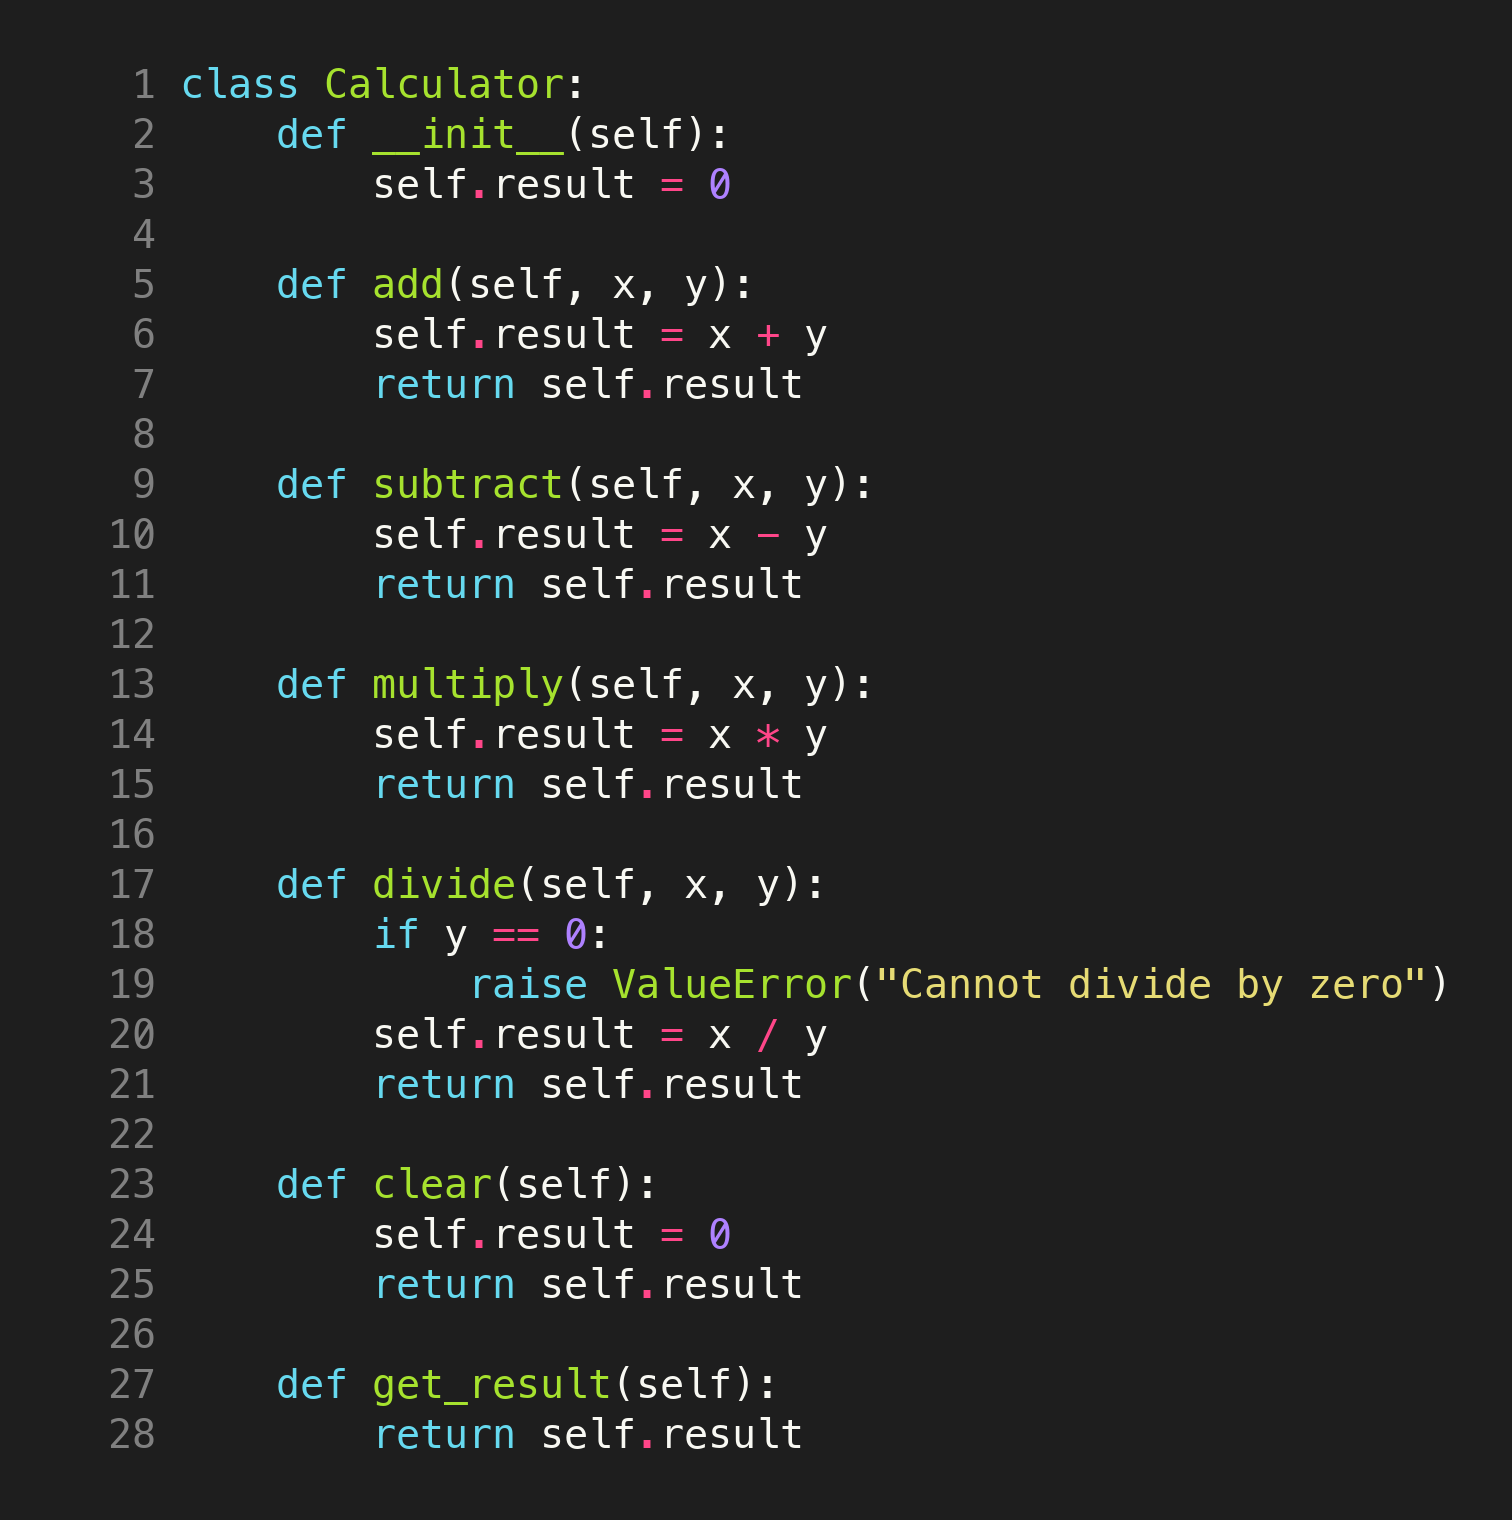
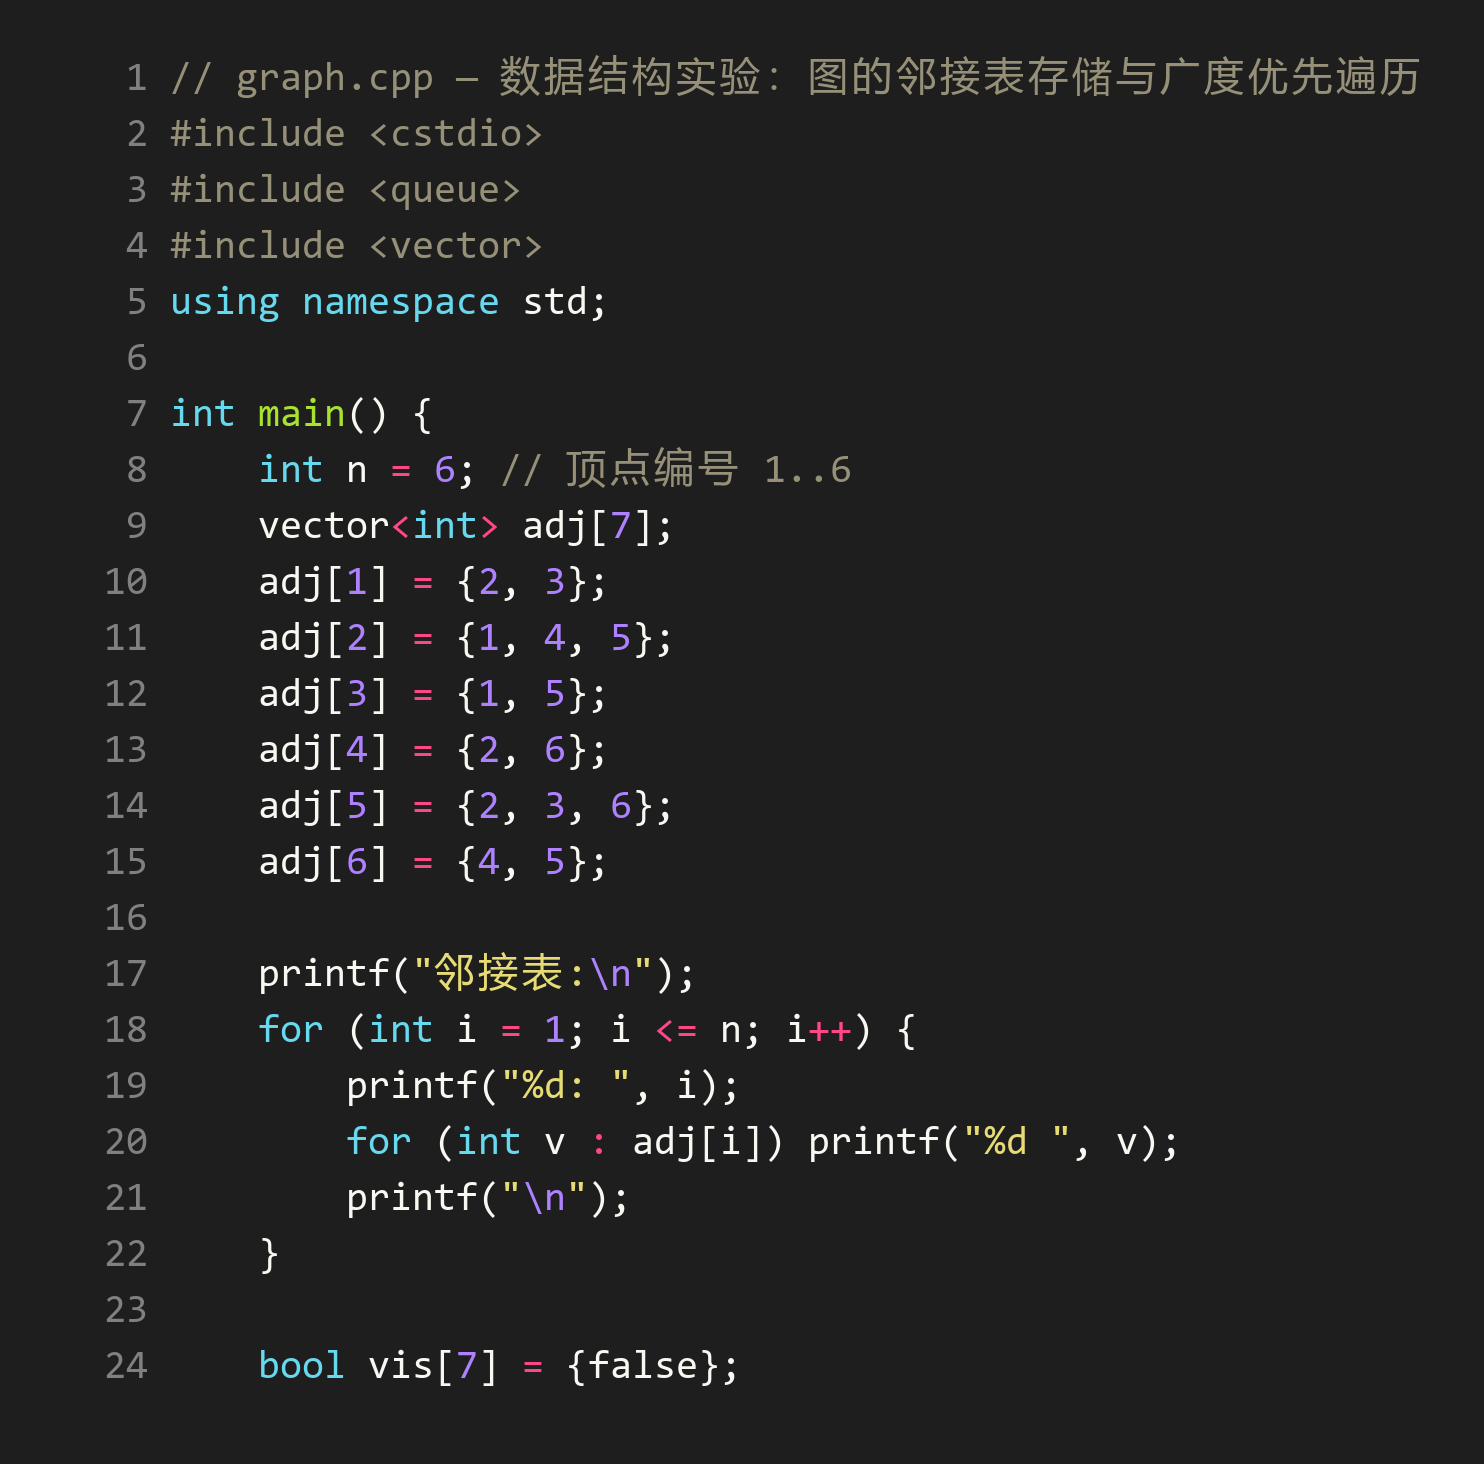
docs: regenerate example screenshots and add preview section to README
Regenerate examples/ with the fixed renderers (monospace fonts, CJK
fallback, shared-baseline, pipe capture on Windows) and embed the three
screenshots in a new README preview section.

diff --git a/README.md b/README.md
@@ -14,6 +14,20 @@
 
 > 仓库内置截图工具、DOCX 格式保护器和报告工作流。DOCX 内容编辑仍由宿主环境完成，但编辑前后的格式基线和验证由 `scripts/docx_format_guard.py` 独立执行。
 
+## 效果预览
+
+代码截图（浅色，含中文注释）：
+
+![代码截图-浅色](examples/code-hello.png)
+
+代码截图（深色）：
+
+![代码截图-深色](examples/code-hello-dark.png)
+
+终端运行截图：
+
+![终端截图](examples/term-demo.png)
+
 ## 目录
 
 ```text
